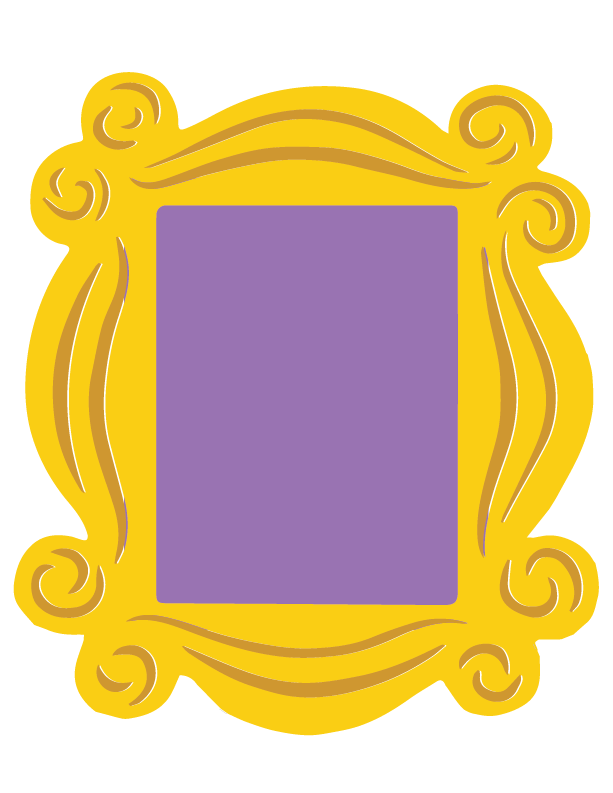
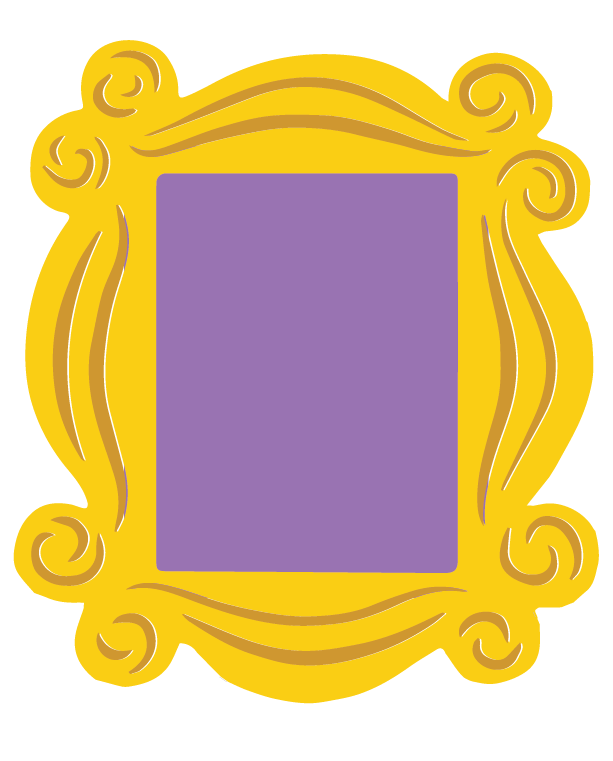
resuleto el rec uadro d el aimagen y añadido audio

Changed region(s): [[0.0, 0.0302, 0.9918, 0.816], [0.124, 0.6347, 0.9918, 0.9369]]

diff --git a/P1/index.css b/P1/index.css
@@ -10,9 +10,9 @@ h1{
     text-align: center;
 }
 h2{
-    
-    margin: 6px;
-    padding: 2px;
+    text-align:center;
+    margin: 4px;
+    padding: 1px;
     border: solid;
     border-color: rgb(115, 34, 152);
     background-image: url("colores.jpeg");
@@ -35,20 +35,20 @@ ul{
 }
 
 .foto{
-    position: absolute;
-    height:140px;
-    
-    left: 67.5px;
-        
-    top: 382px;
-    
+    display:block;
+    border: none;
+    margin:auto;
+    padding: 60px;
+    margin-bottom: 20px;
+    margin-top: -20px;
+    background-image: url("marco.png");
+    background-size: cover;
+    width: 130px;
+  
 }
-.marco{
-    height: 300px;
-    width: 300px;
-    left: 300px;
-    top: 140px;
-}
+
+
+
 .insta{
     list-style-image: url("insta.ico");
 }
@@ -124,6 +124,7 @@ ul{
     background-image: url("gif.webp");
     background-size: cover;
     font-size: large;
+    color: white;
     
     
 }

diff --git a/P1/index.html b/P1/index.html
@@ -9,18 +9,18 @@
 </head>
 <audio src="song.mp3" controls = "controls" autoplay loop></audio>
 <div class="logo">
-    <h1> <img src="logoFriends.png" alt="Imagen: logo" width="400" height="200"> </h1>
+    <h1> <img src="logoFriends.png" alt="Imagen: logo" width="400" height="160"> </h1>
     
 </div>
 
 <body>
     <div class="izquierda">
         
-        <div class="marco">
+        <!--<div class="marco">
             <img src="marco.png" alt="Imagen: Marco">
-        </div>
+        </div>-->
         <div class="foto">
-            <img src="rachel.jpeg" alt="Imagen: Rachel Green">
+            <img src="rachel.jpeg" alt="Imagen: Rachel Green" width="140">
         
         </div>
         
